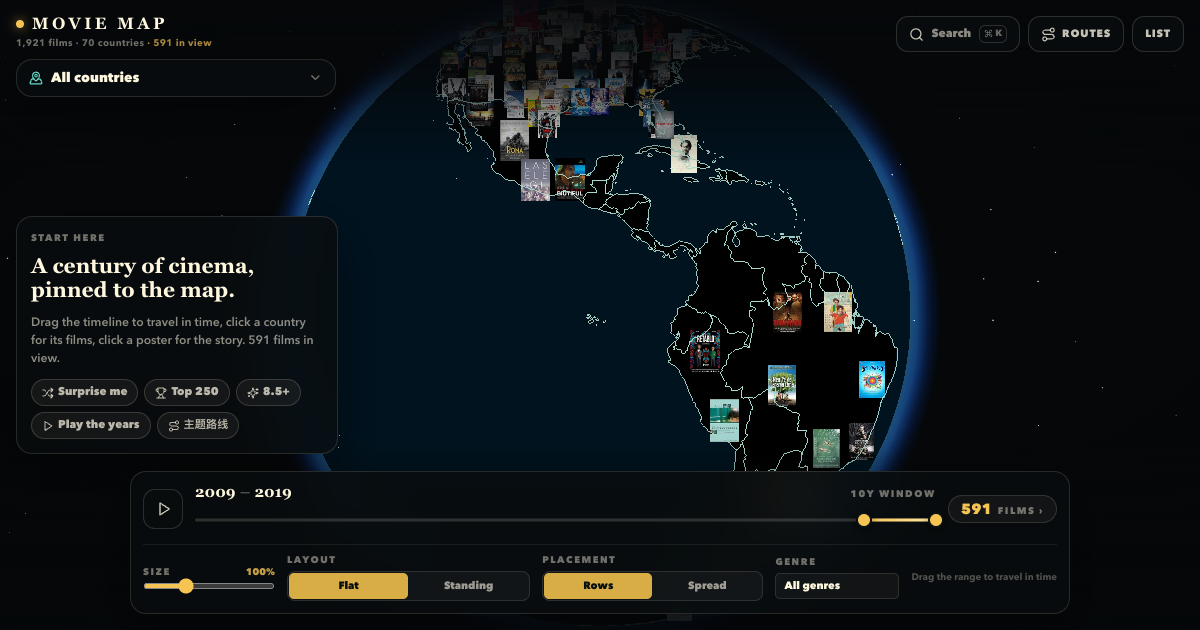
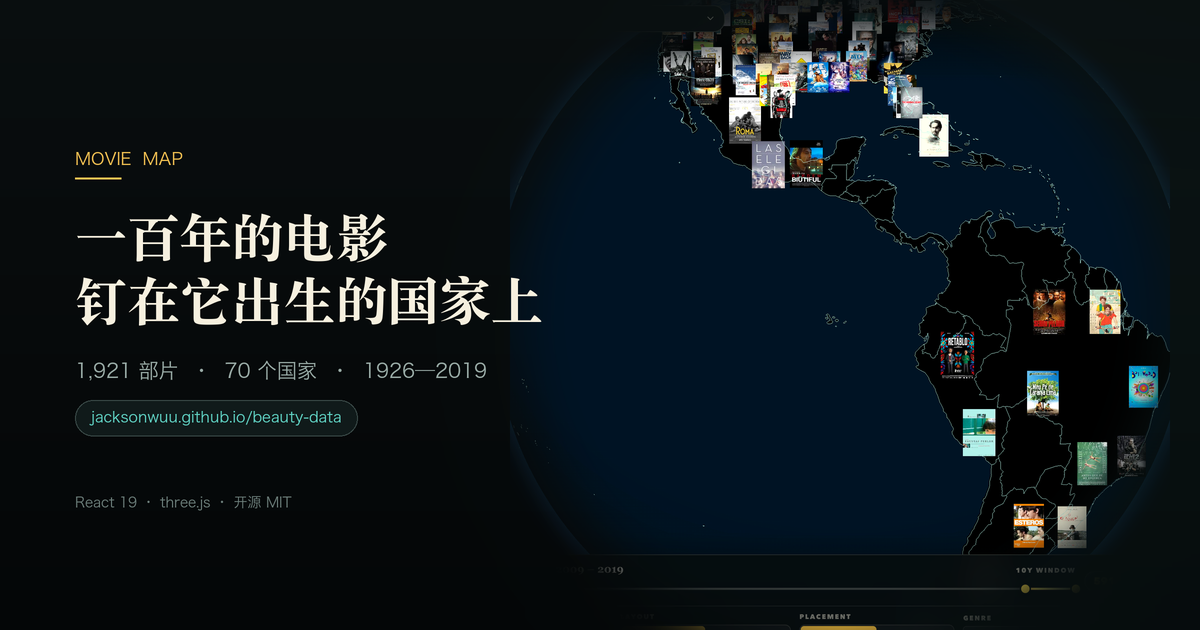
feat: 分享预览图（1200×630）+ 完整的 og/twitter 元信息
- scripts/compose-preview.py：从真实截图合成 X/Slack 预览卡（地球 + 标题锁定）
- index.html：og:image 改成绝对地址（站点在 /beauty-data/ 子路径下，根相对路径会 404），
  补齐 og:title/description/url/width/height/alt 与 twitter:* ，lang 改 zh-CN
- README 换成这张预览图当 banner

diff --git a/apps/movie-map/index.html b/apps/movie-map/index.html
@@ -1,16 +1,30 @@
 <!doctype html>
-<html lang="en">
+<html lang="zh-CN">
   <head>
     <meta charset="UTF-8" />
     <meta name="viewport" content="width=device-width, initial-scale=1.0" />
-    <title>Movie Map</title>
+    <title>电影地图 · Movie Map</title>
     <meta name="description" content="电影地图 · 一百年的电影，钉在它诞生的国家上。1,900 部电影、70 个国家、12 条主题路线，一颗可以转动的时间地图。" />
     <meta name="theme-color" content="#050709" />
+    <link rel="canonical" href="https://jacksonwuu.github.io/beauty-data/" />
+    <!-- Share cards need absolute URLs: the site is served from a /beauty-data/ sub-path,
+         so a root-relative /preview.png would 404 for crawlers. -->
     <meta property="og:type" content="website" />
-    <meta property="og:title" content="电影地图 · Movie Map" />
-    <meta property="og:description" content="一百年的电影，钉在它诞生的国家上。" />
-    <meta property="og:image" content="/preview.png" />
+    <meta property="og:site_name" content="Movie Map" />
+    <meta property="og:url" content="https://jacksonwuu.github.io/beauty-data/" />
+    <meta property="og:locale" content="zh_CN" />
+    <meta property="og:title" content="电影地图 · 一百年的电影，钉在它出生的国家上" />
+    <meta property="og:description" content="1,921 部电影 · 70 个国家 · 12 条主题路线。拖动时间轴，看一整个世纪的电影亮起来。" />
+    <meta property="og:image" content="https://jacksonwuu.github.io/beauty-data/preview.png" />
+    <meta property="og:image:type" content="image/png" />
+    <meta property="og:image:width" content="1200" />
+    <meta property="og:image:height" content="630" />
+    <meta property="og:image:alt" content="一颗布满电影海报的地球，旁边写着“一百年的电影，钉在它出生的国家上”。" />
     <meta name="twitter:card" content="summary_large_image" />
+    <meta name="twitter:title" content="电影地图 · 一百年的电影，钉在它出生的国家上" />
+    <meta name="twitter:description" content="1,921 部电影 · 70 个国家 · 12 条主题路线。拖动时间轴，看一整个世纪的电影亮起来。" />
+    <meta name="twitter:image" content="https://jacksonwuu.github.io/beauty-data/preview.png" />
+    <meta name="twitter:image:alt" content="一颗布满电影海报的地球。" />
     <style>
       html,
       body {

diff --git a/apps/movie-map/scripts/compose-preview.py b/apps/movie-map/scripts/compose-preview.py
@@ -1,0 +1,136 @@
+#!/usr/bin/env python3
+"""Compose the social preview card (og:image) from a live screenshot.
+
+The hero shot is captured with Chrome DevTools (`/tmp` scratch, not committed):
+
+    Emulation.setDeviceMetricsOverride 1000x1000, deviceScaleFactor 2
+    https://<site>/?country=JP
+
+then this script puts the globe on the right and the title lockup on the left,
+so a link on X / Slack shows something better than a raw screenshot.
+
+Usage: python3 scripts/compose-preview.py <hero.png> [out.png]
+"""
+
+from __future__ import annotations
+
+import sys
+from pathlib import Path
+
+from PIL import Image, ImageDraw, ImageEnhance, ImageFilter, ImageFont
+
+ROOT = Path(__file__).resolve().parent.parent
+DEFAULT_OUT = ROOT / "public" / "preview.png"
+
+W, H = 2400, 1260  # 1200x630 at 2x, the summary_large_image size
+BG_TOP = (9, 14, 15)
+BG_BOTTOM = (4, 6, 7)
+INK = (246, 240, 223)
+GOLD = (246, 196, 83)
+MUTED = (154, 172, 167)
+TEAL = (98, 215, 200)
+
+SONGTI = "/System/Library/Fonts/Supplemental/Songti.ttc"
+SANS = "/System/Library/Fonts/Hiragino Sans GB.ttc"
+
+
+def font(path: str, size: int, index: int = 0) -> ImageFont.FreeTypeFont:
+    try:
+        return ImageFont.truetype(path, size, index=index)
+    except OSError:
+        return ImageFont.load_default()
+
+
+def background() -> Image.Image:
+    canvas = Image.new("RGB", (W, H), BG_BOTTOM)
+    draw = ImageDraw.Draw(canvas)
+    for y in range(H):
+        ratio = y / (H - 1)
+        draw.line(
+            [(0, y), (W, y)],
+            fill=(
+                round(BG_TOP[0] + (BG_BOTTOM[0] - BG_TOP[0]) * ratio),
+                round(BG_TOP[1] + (BG_BOTTOM[1] - BG_TOP[1]) * ratio),
+                round(BG_TOP[2] + (BG_BOTTOM[2] - BG_TOP[2]) * ratio),
+            ),
+        )
+
+    # Faint glow so the globe does not sit on a flat rectangle.
+    glow = Image.new("L", (W, H), 0)
+    ImageDraw.Draw(glow).ellipse(
+        [(W * 0.46, H * 0.02), (W * 1.16, H * 1.05)], fill=70
+    )
+    glow = glow.filter(ImageFilter.GaussianBlur(180))
+    canvas.paste(Image.new("RGB", (W, H), (14, 34, 33)), (0, 0), glow)
+    return canvas
+
+
+def globe(hero: Image.Image, size: int) -> Image.Image:
+    """Crop the planet out of the screenshot and feather its rim."""
+    side = int(min(hero.size) * 0.94)
+    left = (hero.width - side) // 2
+    top = (hero.height - side) // 2
+    crop = hero.crop((left, top, left + side, top + side)).convert("RGB").resize((size, size), Image.LANCZOS)
+
+    mask = Image.new("L", (size, size), 0)
+    draw = ImageDraw.Draw(mask)
+    inset = int(size * 0.012)
+    draw.ellipse([inset, inset, size - inset, size - inset], fill=255)
+    mask = mask.filter(ImageFilter.GaussianBlur(size * 0.035))
+
+    # The WebGL frame is a little dim once it sits next to pure black; lift it
+    # so the posters still read at 600 px wide on a phone timeline.
+    crop = ImageEnhance.Brightness(crop).enhance(1.1)
+    crop = ImageEnhance.Color(crop).enhance(1.12)
+    crop = ImageEnhance.Contrast(crop).enhance(1.04)
+    crop.putalpha(mask)
+    return crop
+
+
+def rounded(draw: ImageDraw.ImageDraw, box, radius: int, **kwargs) -> None:
+    draw.rounded_rectangle(box, radius=radius, **kwargs)
+
+
+def main() -> None:
+    hero_path = Path(sys.argv[1])
+    out_path = Path(sys.argv[2]) if len(sys.argv) > 2 else DEFAULT_OUT
+
+    hero = Image.open(hero_path)
+    canvas = background()
+
+    globe_size = 1320
+    planet = globe(hero, globe_size)
+    canvas.paste(planet, (W - globe_size - 60, (H - globe_size) // 2), planet)
+
+    draw = ImageDraw.Draw(canvas)
+
+    # Left lockup ------------------------------------------------------------
+    x = 150
+    eyebrow_font = font(SANS, 34)
+    title_font = font(SONGTI, 104, index=0)
+    sub_font = font(SANS, 40)
+    chip_font = font(SANS, 30)
+
+    draw.text((x, 300), "MOVIE  MAP", font=eyebrow_font, fill=GOLD)
+    draw.line([(x, 356), (x + 92, 356)], fill=GOLD, width=4)
+
+    draw.text((x, 402), "一百年的电影", font=title_font, fill=INK)
+    draw.text((x, 528), "钉在它出生的国家上", font=title_font, fill=INK)
+
+    draw.text((x, 720), "1,921 部片  ·  70 个国家  ·  1926—2019", font=sub_font, fill=MUTED)
+
+    chip_text = "jacksonwuu.github.io/beauty-data"
+    text_w = draw.textlength(chip_text, font=chip_font)
+    chip = (x, 800, x + text_w + 64, 872)
+    rounded(draw, chip, radius=36, fill=(16, 26, 26), outline=(58, 74, 72), width=2)
+    draw.text((x + 32, 818), chip_text, font=chip_font, fill=TEAL)
+
+    # A quiet footer note keeps the card from feeling like a bare screenshot.
+    draw.text((x, 990), "React 19 · three.js · 开源 MIT", font=font(SANS, 28), fill=(110, 128, 124))
+
+    canvas.save(out_path, "PNG", optimize=True)
+    print(f"wrote {out_path} ({canvas.size[0]}x{canvas.size[1]})")
+
+
+if __name__ == "__main__":
+    main()

diff --git a/README.md b/README.md
@@ -6,7 +6,9 @@
 
 **在线体验：<https://jacksonwuu.github.io/beauty-data/>**
 
-![movie map](docs/screenshot.png)
+![电影地图 · Movie Map](docs/preview.png)
+
+> 分享到 X / Slack / 微信时用的预览图就是上面这张（`public/preview.png`，1200×630，由 `scripts/compose-preview.py` 从真实截图合成）。`docs/screenshot.png` 则是完整界面截图。
 
 ## 功能
 
